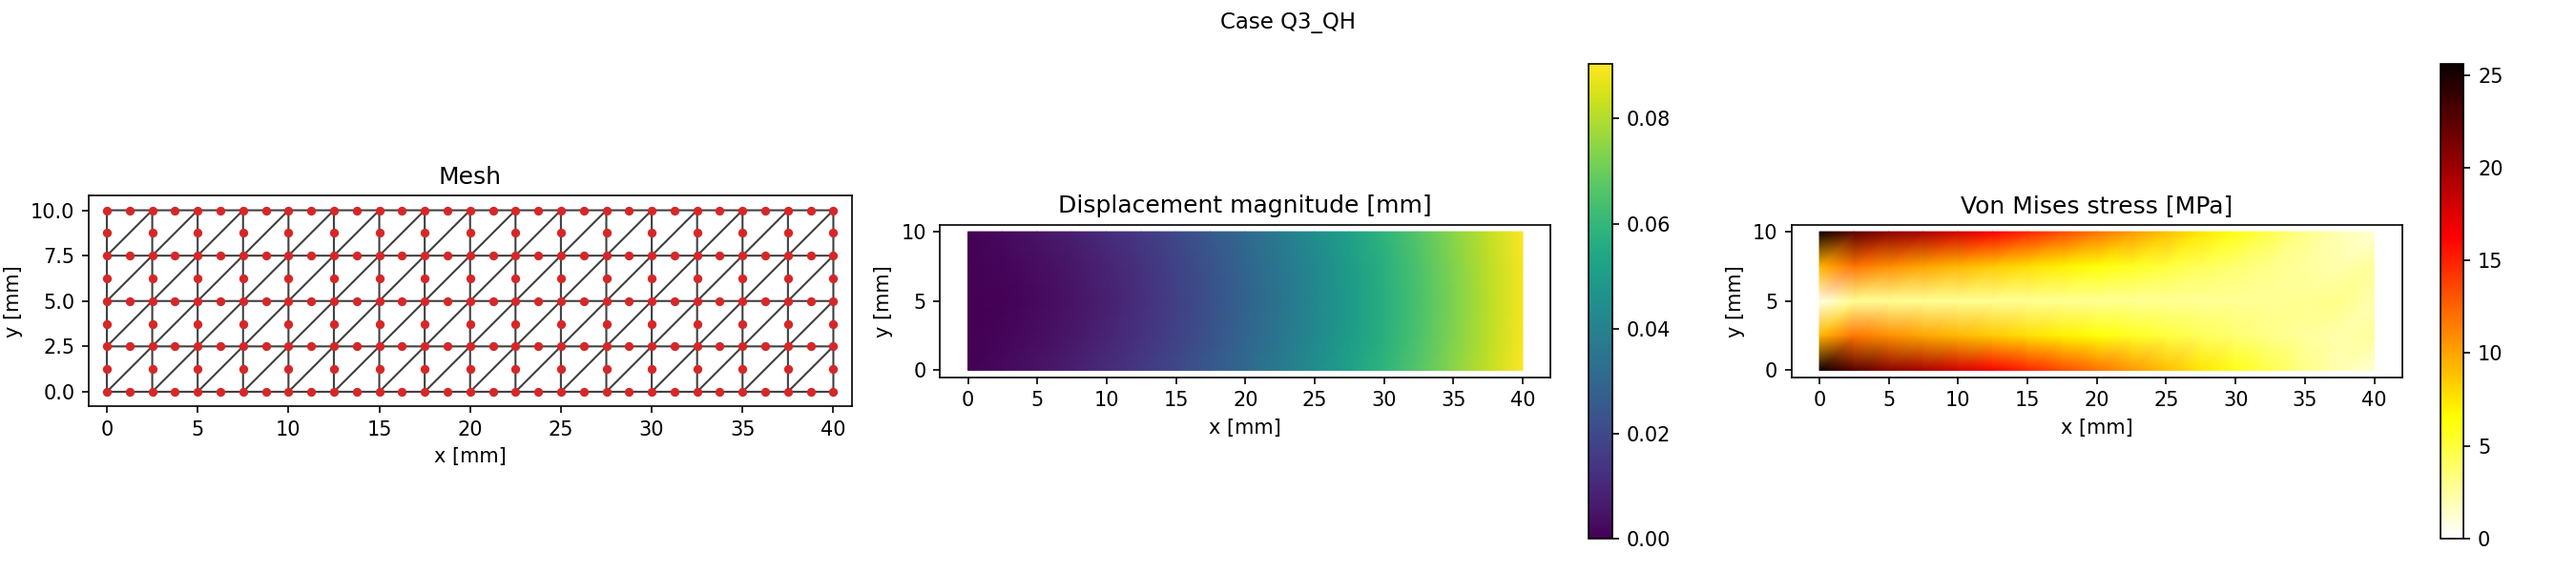
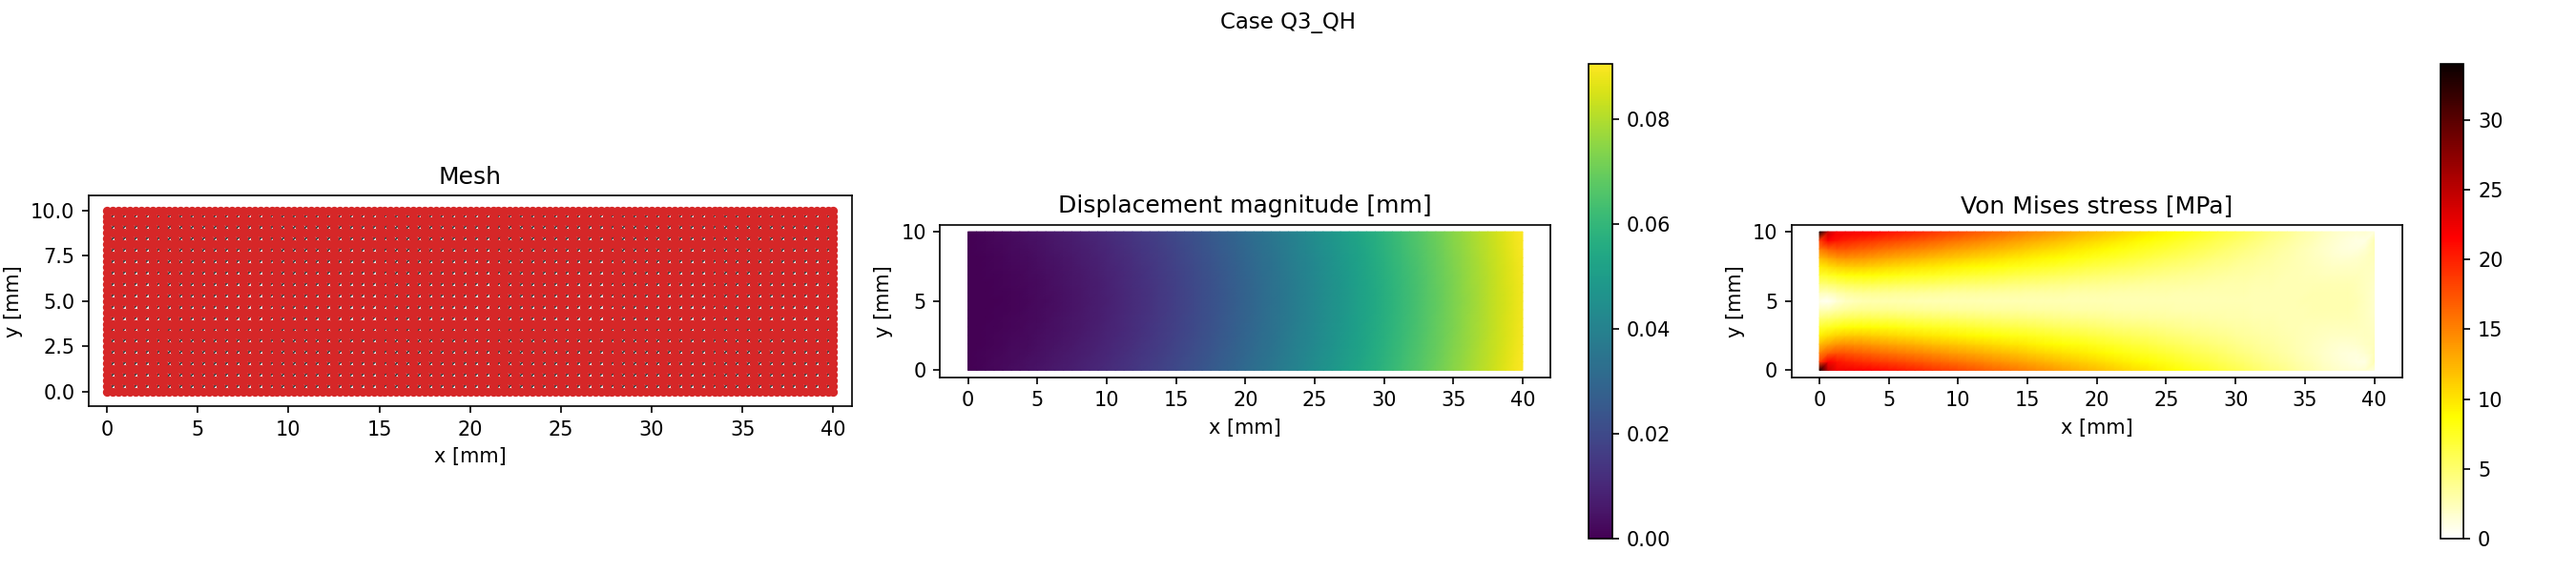
sec 2.1.2: refine Q3/T3 mesh to nx=64 ny=16 for fully smooth Von Mises distribution

Changed region(s): [[0.0311, 0.36, 0.3422, 0.69], [0.6844, 0.39, 0.9333, 0.66], [0.6222, 0.18, 0.6533, 0.21]]

diff --git a/sec_02/2.1/2/fem_plane_stress_beam.py b/sec_02/2.1/2/fem_plane_stress_beam.py
@@ -99,10 +99,10 @@ analysis_cases: list[dict[str, str]] = [
 mesh_pattern_cfg: dict[str, dict[str, int]] = {
     "Q1": {"nx": 4, "ny": 1},
     "Q2": {"nx": 4, "ny": 1},
-    "Q3": {"nx": 16, "ny": 4},
+    "Q3": {"nx": 64, "ny": 16},
     "T1": {"nx": 4, "ny": 1},
     "T2": {"nx": 4, "ny": 1},
-    "T3": {"nx": 16, "ny": 4},
+    "T3": {"nx": 64, "ny": 16},
 }
 
 # Parallelogram distortion applied to figure 2.3 distorted patterns Q2/T2.
